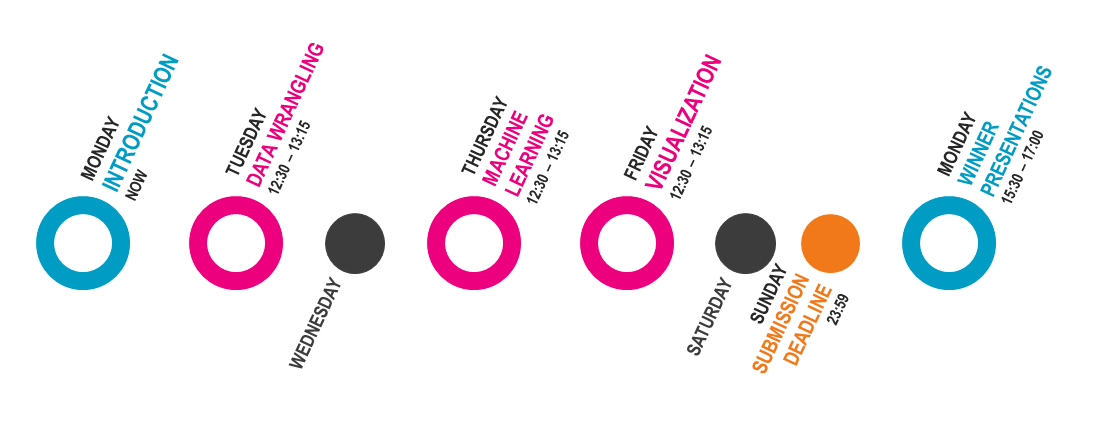
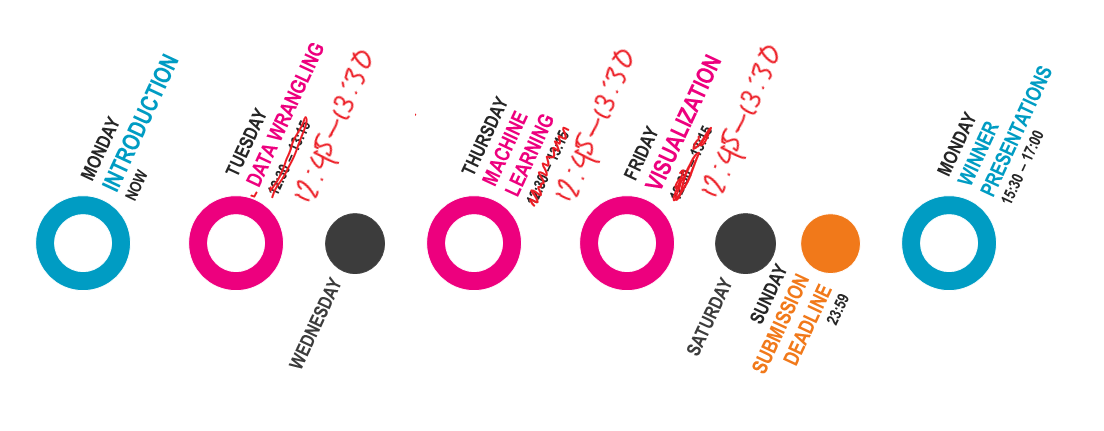
correct schedule image

diff --git a/data-science-week.html b/data-science-week.html
@@ -71,19 +71,51 @@ imageBackground: "#009CC3"
       style="max-width: 100%"
     />
     <div class="row">
-      <div class="col-xl-4 col-lg-6 col-12 mt-2">
+      <div
+        class="col-xl-4 col-lg-6 col-12 mt-4"
+        style="border-right: 1px dashed rgba(0.4, 0.4, 0.4, 0.1)"
+      >
         <h4>Kickoff</h4>
         <h6 class="date">September 20th, 15:30 – 17:00</h6>
       </div>
-      <div class="col-xl-4 col-lg-6 col-12 mt-2">
+      <div
+        class="col-xl-4 col-lg-6 col-12 mt-4"
+        style="border-right: 1px dashed rgba(0.4, 0.4, 0.4, 0.1)"
+      >
         <h4>
           <a href="/events/workshops/tidy-data-wrangling/"
             >Workshop Data Wrangling</a
           >
         </h4>
-        <h6 class="date">September 21st, 12:45 – 13:30</h6>
+        <h6
+          class="date"
+          style="border-right: 1px dashed rgba(0.4, 0.4, 0.4, 0.1)"
+        >
+          September 21st, 12:45 – 13:30
+        </h6>
+        <h5 class="mt-2">Materials</h5>
+        <h6>
+          <a href="/assets/files/datathon/housing/data-wrangling.html"
+            >workshop slides</a
+          >
+        </h6>
+        <p class="small text-muted">
+          the slides as used during the presentation, as an
+          <code>.html</code> file. Opens in your browser, if your screen is too
+          small things may get squashed.
+        </p>
+        <h6>
+          <a href="/assets/files/datathon/housing/data-wrangling.Rpres"
+            >workshop script</a
+          >
+        </h6>
+        <p class="small text-muted">
+          the script used to create the slides. This is an RMarkdown file,
+          mixing text and R code. You can open it with RStudio, or any text
+          editor.
+        </p>
       </div>
-      <div class="col-xl-4 col-lg-6 col-12 mt-2">
+      <div class="col-xl-4 col-lg-6 col-12 mt-4">
         <h4>
           <a href="/events/workshops/machine-learning/"
             >Workshop Machine Learning</a
@@ -91,7 +123,10 @@ imageBackground: "#009CC3"
         </h4>
         <h6 class="date">September 23rd, 12:45 – 13:30</h6>
       </div>
-      <div class="col-xl-4 col-lg-6 col-12 mt-2">
+      <div
+        class="col-xl-4 col-lg-6 col-12 mt-4"
+        style="border-right: 1px dashed rgba(0.4, 0.4, 0.4, 0.1)"
+      >
         <h4>
           <a href="/events/workshops/data-visualization/"
             >Workshop Data Visualization</a
@@ -99,11 +134,14 @@ imageBackground: "#009CC3"
         </h4>
         <h6 class="date">September 24th, 12:45 – 13:30</h6>
       </div>
-      <div class="col-xl-4 col-lg-6 col-12 mt-2">
+      <div
+        class="col-xl-4 col-lg-6 col-12 mt-4"
+        style="border-right: 1px dashed rgba(0.4, 0.4, 0.4, 0.1)"
+      >
         <h4>Submission Deadline</h4>
         <h6 class="date">September 26th, 23:59</h6>
       </div>
-      <div class="col-xl-4 col-lg-6 col-12 mt-2">
+      <div class="col-xl-4 col-lg-6 col-12 mt-4">
         <h4>Closing Session</h4>
         <h6 class="date">September 27th, 15:30 – 17:00</h6>
       </div>
@@ -125,23 +163,23 @@ imageBackground: "#009CC3"
     </p>
 
     <div class="row">
-      <div class="col-12 mt-2">
+      <div class="col-12 mt-4">
         <a href="/assets/files/datathon/housing/data.zip" title="bundled data"
           ><h4>data.zip</h4>
         </a>
         ZIP file with testing and training datasets and data description.
         Includes all the individual files listed below.
       </div>
-      <div class="col-xl-4 col-12 mt-2">
+      <div class="col-xl-4 col-12 mt-4">
         <a href="/assets/files/datathon/housing/data_description.txt"
           ><h4>description.txt</h4></a
         >description of the data
       </div>
-      <div class="col-xl-4 col-12 mt-2">
+      <div class="col-xl-4 col-12 mt-4">
         <a href="/assets/files/datathon/housing/train.csv"><h4>train.csv</h4></a
         >labelled training data
       </div>
-      <div class="col-xl-4 col-12 mt-2">
+      <div class="col-xl-4 col-12 mt-4">
         <a href="/assets/files/datathon/housing/test.csv"><h4>test.csv</h4></a
         >unlabelled testing data
       </div>

diff --git a/_workshops/bdsi-datathon.md b/_workshops/bdsi-datathon.md
@@ -30,7 +30,6 @@ endDate: 2021-09-27
 - [Are you already signed up?](#are-you-already-signed-up)
 - [What is it?](#what-is-it)
 - [Who can join?](#who-can-join)
-- [How does it work?](#how-does-it-work)
 - [What can I do to prepare?](#what-can-i-do-to-prepare)
   - [Get a team](#get-a-team)
   - [Read the book (or at least pretend to)](#read-the-book-or-at-least-pretend-to)
@@ -56,8 +55,6 @@ The goal of the Data Science week is to introduce interested students and staff 
 ## Who can join?
 
 Everyone related to the faculty of Behavioural and Management Sciences and their friends and family can join (although at least one member of your team needs to have a University of Twente account in order to sign up). You can join with friends, colleagues or even family. The event is open to both novices and experts, and everyone in between. Three (virtual) lunch workshops will introduce the main steps in all data science projects. You can join as a team, or alone. If you do join alone you can choose to be assigned to a team with other data science enthusiasts.
-
-## How does it work?
 
 ## What can I do to prepare?
 
